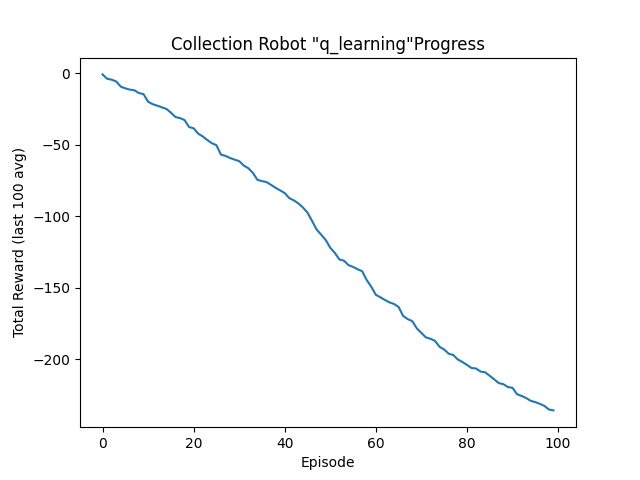
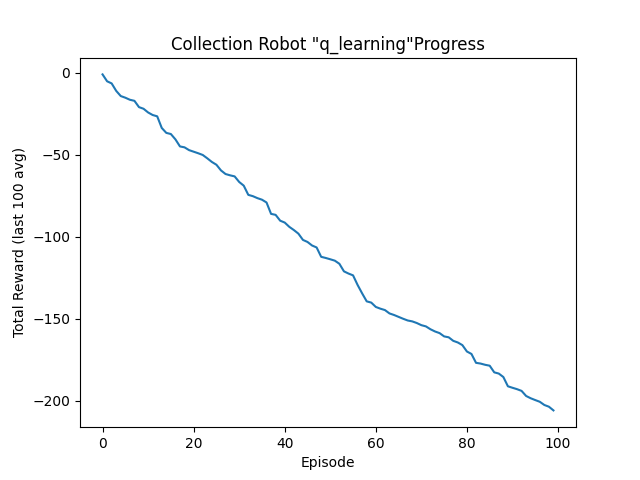
Completed observation_space

diff --git a/main.py b/main.py
@@ -3,9 +3,8 @@ import pickle as pkl
 from fa_env.envs.grid_world import GridWorldEnv
 import matplotlib.pyplot as plt
 
-def convert_action_to_int(array):
-    return (array[0] + 1) * (array[1] + 1) - 1
 
+#Helpers
 def fetch_model(is_training, env, algorithm):
     if is_training or algorithm == "":
         q = np.zeros((env.size**2, env.action_space.n))
@@ -14,11 +13,9 @@ def fetch_model(is_training, env, algorithm):
             q = pkl.load(f)
     return q
 
-
 def update_model(q,algorithm):
     with open(f"{algorithm}_model.pkl", "wb") as f:
             pkl.dump(q, f)
-
 
 def plot_run(episodes, rewards_per_episode, algorithm):
     sum_rewards = np.zeros(episodes)
@@ -32,13 +29,18 @@ def plot_run(episodes, rewards_per_episode, algorithm):
     plt.savefig(f'{algorithm}_model.png')
     plt.close()
 
+def convert_action_to_int(array):
+    return (array[0] + 1) * (array[1] + 1) - 1
 
+
+# Algorithms
 def q_learning(is_training, env, learning_rate_a, discount_factor, epsilon, epsilon_decay_rate, episodes): 
     
     q = fetch_model(is_training, env,"q_learning")
     rewards_per_episode = np.zeros(episodes)
 
     for i in range(episodes):
+        # Reset environment 
         state = env.reset()[0]
         terminated = False
         truncated = False
@@ -58,6 +60,9 @@ def q_learning(is_training, env, learning_rate_a, discount_factor, epsilon, epsi
 
 
             new_state, reward, terminated, truncated, _ = env.step(action)
+            # is info which is used in an action mask should we make one
+            # used for only picking legal option
+
 
             rewards += reward
 
@@ -70,16 +75,20 @@ def q_learning(is_training, env, learning_rate_a, discount_factor, epsilon, epsi
             
             state = new_state
 
-        rewards_per_episode[i] = rewards
-        # Implement Epsilon decay rate (As you develop a good policy you should explore less and take the greedy option)
-        # If epsilon is ever 0 decrease learning rate
+        #Update exploration rate, then lowering learning rate once fully greedy
+        #epsilon = max(epsilon - epsilon_decay_rate, 0)
+        #if epsilon == 0:
+        #    learning_rate_a = 0.0001  # Lower learning rate once fully greedy
 
+        rewards_per_episode[i] = rewards
+
+    #Post-training
     env.close()
+
+    plot_run(episodes, rewards_per_episode, "q_learning")
 
     if is_training: 
         update_model(q,"q_learning")
-
-    plot_run(episodes, rewards_per_episode, "q_learning")
 
     
         

diff --git a/fa_env/envs/grid_world.py b/fa_env/envs/grid_world.py
@@ -70,6 +70,8 @@ class GridWorldEnv(gym.Env):
         self._charging_station_position = None
         self._trash_bin_position = None
 
+        self._max_trash = 6
+
         # Observations are dictionaries with the agent's and the target's location.
         # Each location is encoded as an element of {0, ..., `size`}^2,
         # i.e. MultiDiscrete([size, size]).
@@ -78,11 +80,11 @@ class GridWorldEnv(gym.Env):
             'agent_battery': spaces.Box(0, 100, shape=(), dtype=float),
             'current_terrain_type': spaces.Discrete(4),
             'agent_trashload': spaces.Discrete(4),
-            #'agent_capacity' : self._agent_max_held_garbage,
+            'agent_capacity' : spaces.Discrete(self._agent_max_held_garbage + 1), # this is new
             'envrionment_trash_amount': spaces.Discrete(10),
-            #'trash_positions' : self._trash_known_positions,
+            'trash_positions' : spaces.Box(0, self.size - 1, shape=(self._max_trash, 2), dtype=int), # this is new
             'charging_station_position': spaces.Box(0, self.size - 1, shape=(2,), dtype=int),
-            'trash_bin_position': spaces.Box(0, self.size - 1, shape=(2,), dtype=int),
+            'trash_bin_position': spaces.Box(0, self.size - 1, shape=(2,), dtype=int)
         })
 
         # We have 7 actions, corresponding to 'right', 'up', 'left', 'down', 'stay','pick up',and 'drop off'
@@ -149,7 +151,7 @@ class GridWorldEnv(gym.Env):
         self._agent_held_garbage = 0
 
         # Pick a number of garbage pieces
-        self.env_base_garbage_count = random.randint(3, 6)
+        self.env_base_garbage_count = random.randint(3, self._max_trash)
         self._env_garbage_count = self.env_base_garbage_count
 
         #Place charging station
